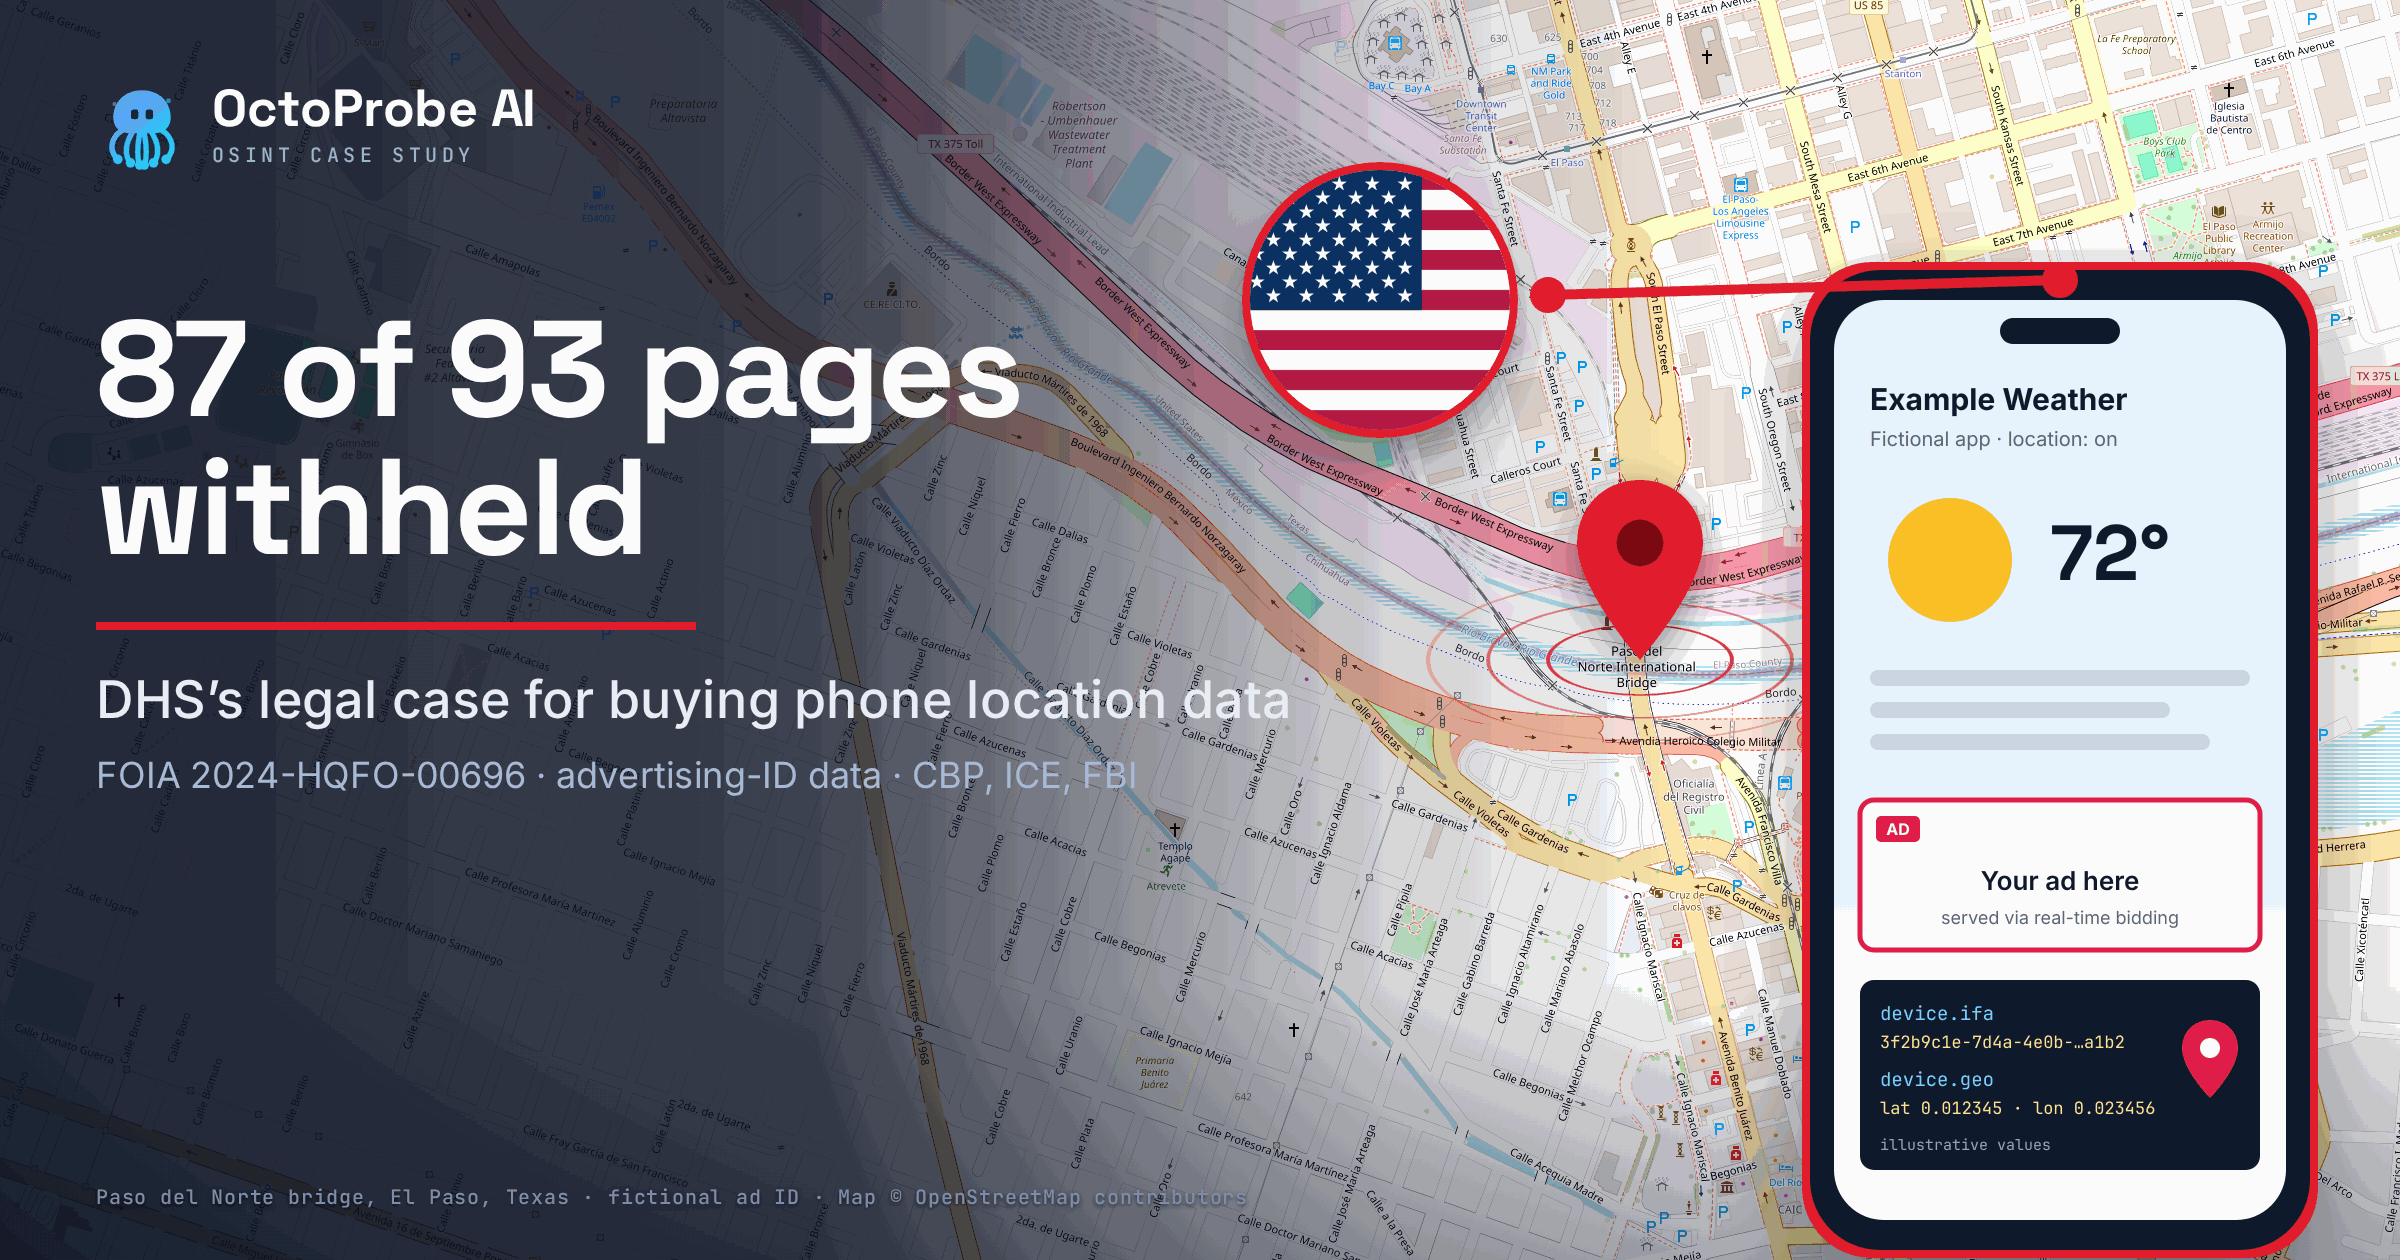
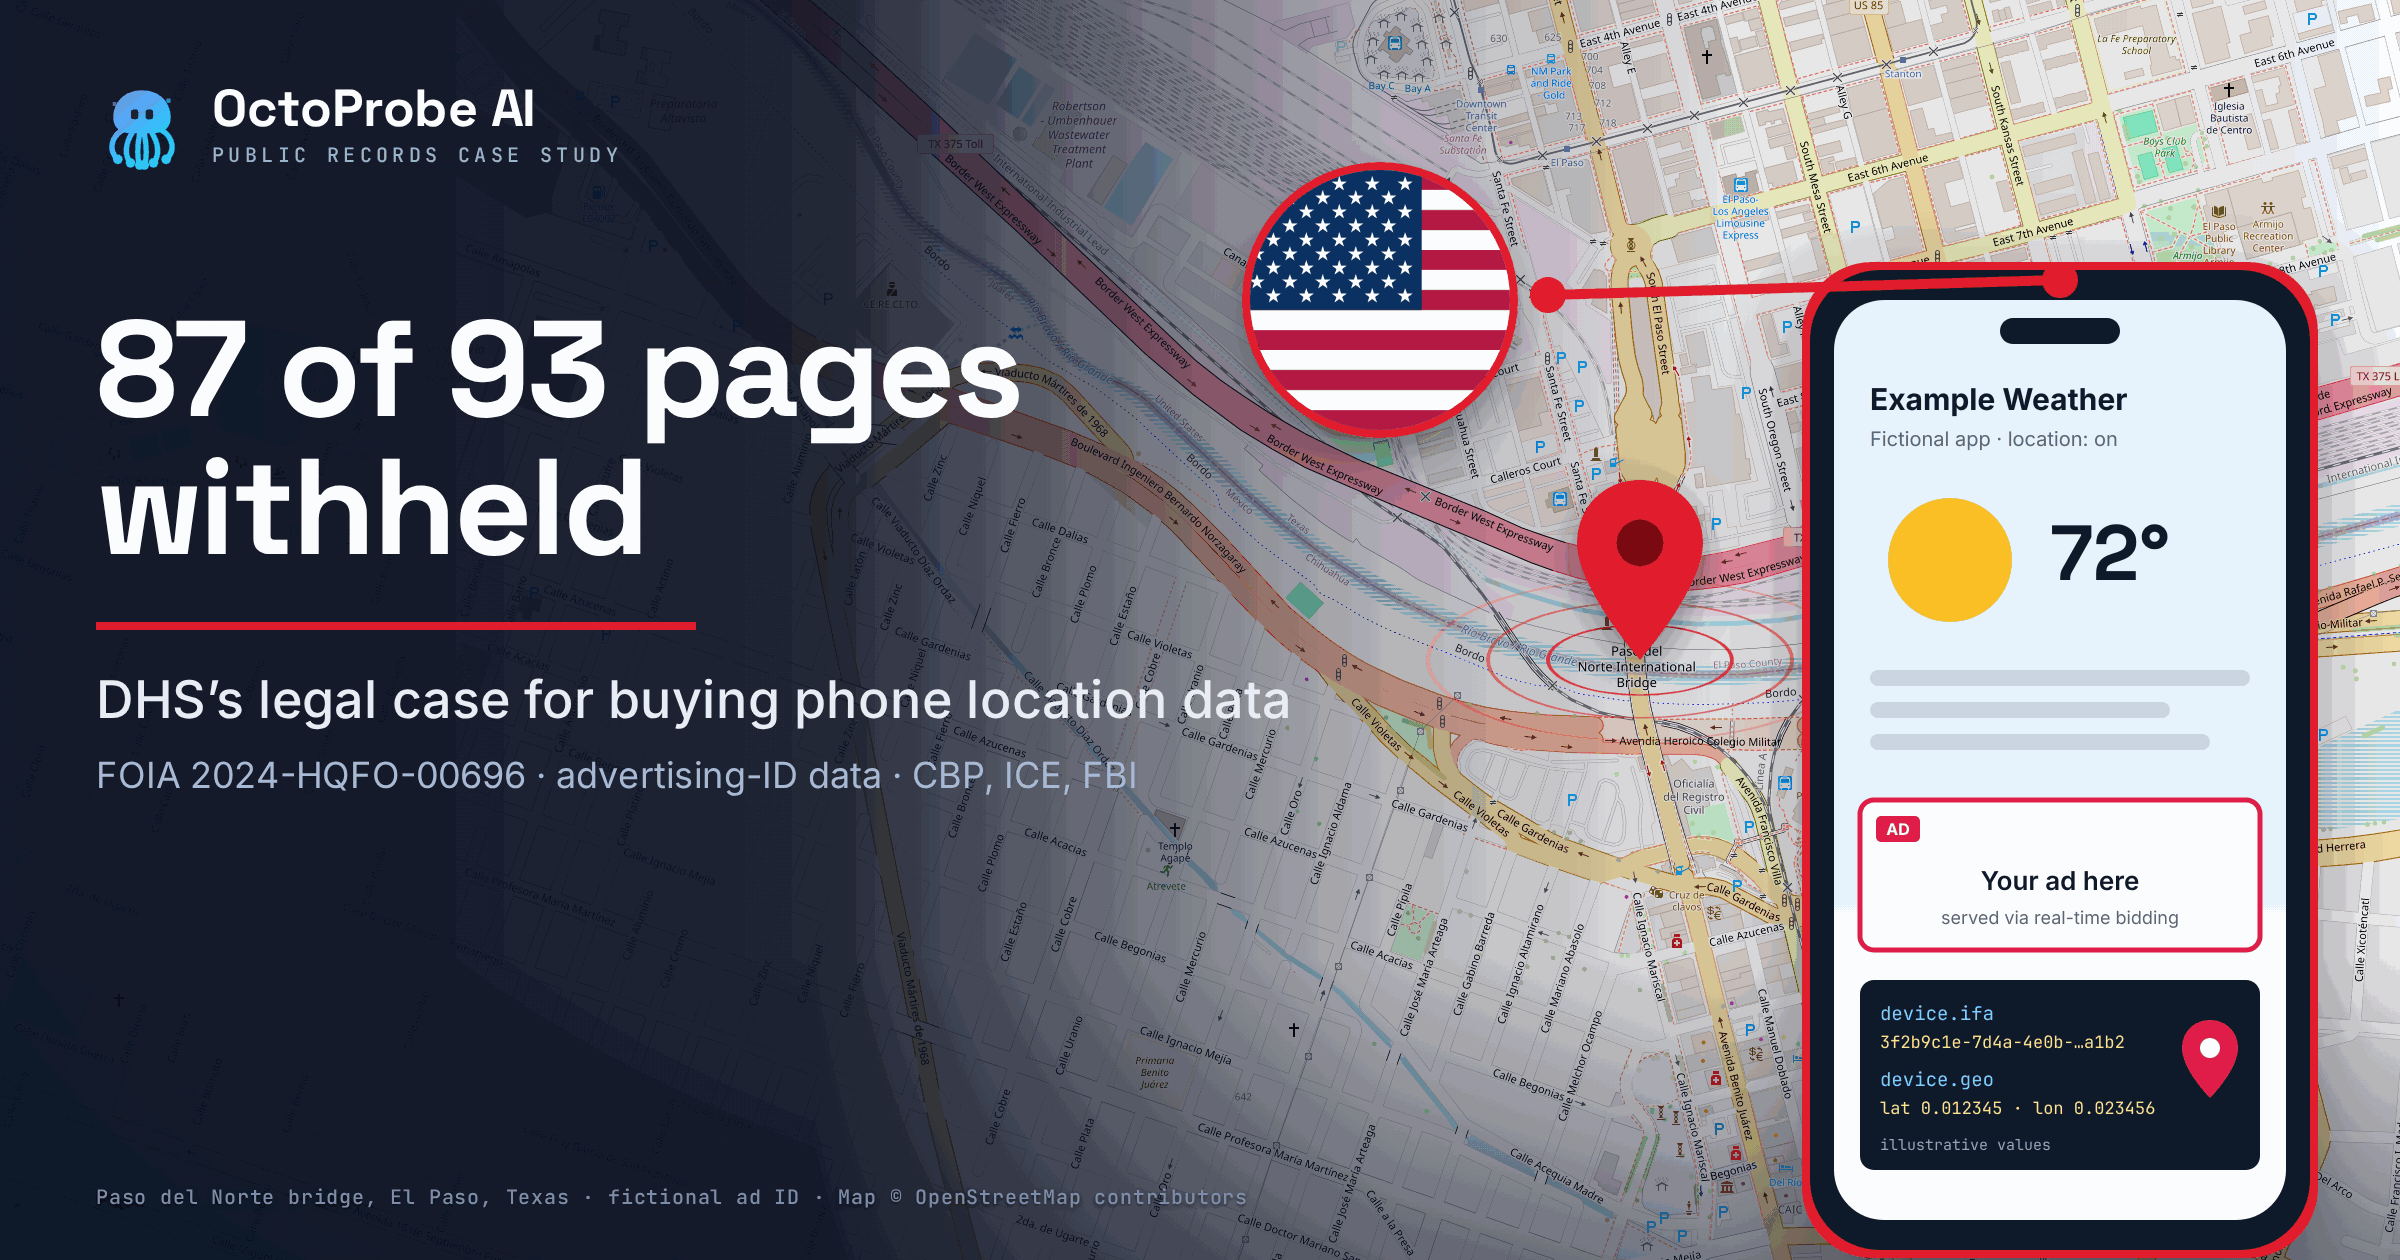
Blog: DHS adtech post cover v2 (public records label, darker scrim)
- assets/cover.png and og-cover.png regenerated: brand label now reads
  "PUBLIC RECORDS CASE STUDY"; left text scrim ~12 points darker. Map, pin,
  flag, phone, title, subtitle and credits unchanged.
- Cache-busting ?v=2 on the cover <img>, og:image, twitter:image and JSON-LD
  image (source: blog/posts/...md og_image and scripts/adtech-modules.py),
  and on the blog/index.html card.

diff --git a/blog/dhs-phone-location-data-legal-opinion-foia/index.html b/blog/dhs-phone-location-data-legal-opinion-foia/index.html
@@ -16,7 +16,7 @@
 <meta property="og:url" content="https://www.octoprobe.ai/blog/dhs-phone-location-data-legal-opinion-foia/">
 <meta property="og:title" content="DHS Lawyers Wrote 24 Pages on Buying Your Phone’s Location Data. They Withheld Every Page of the Analysis.">
 <meta property="og:description" content="A DHS legal opinion on buying phone ad-ID location data came back under FOIA as one page and 23 withheld pages. How the trade works and what is still secret.">
-<meta property="og:image" content="https://www.octoprobe.ai/blog/dhs-phone-location-data-legal-opinion-foia/assets/og-cover.png">
+<meta property="og:image" content="https://www.octoprobe.ai/blog/dhs-phone-location-data-legal-opinion-foia/assets/og-cover.png?v=2">
 <meta property="og:image:width" content="1200">
 <meta property="og:image:height" content="630">
 <meta property="og:image:alt" content="DHS Lawyers Wrote 24 Pages on Buying Your Phone’s Location Data. They Withheld Every Page of the Analysis.">
@@ -26,7 +26,7 @@
 <meta name="twitter:site" content="@octoprobeai">
 <meta name="twitter:title" content="DHS Lawyers Wrote 24 Pages on Buying Your Phone’s Location Data. They Withheld Every Page of the Analysis.">
 <meta name="twitter:description" content="A DHS legal opinion on buying phone ad-ID location data came back under FOIA as one page and 23 withheld pages. How the trade works and what is still secret.">
-<meta name="twitter:image" content="https://www.octoprobe.ai/blog/dhs-phone-location-data-legal-opinion-foia/assets/og-cover.png">
+<meta name="twitter:image" content="https://www.octoprobe.ai/blog/dhs-phone-location-data-legal-opinion-foia/assets/og-cover.png?v=2">
 <script type="application/ld+json">
 {
   "@context": "https://schema.org",
@@ -65,7 +65,7 @@
     }
   },
   "image": [
-    "https://www.octoprobe.ai/blog/dhs-phone-location-data-legal-opinion-foia/assets/og-cover.png"
+    "https://www.octoprobe.ai/blog/dhs-phone-location-data-legal-opinion-foia/assets/og-cover.png?v=2"
   ],
   "keywords": "commercial telemetry data, advertising ID location data, DHS FOIA, Venntel, CBP, ICE, FBI, real-time bidding, MAID, IDFA, Carpenter, Fourth Amendment Is Not For Sale Act",
   "mainEntityOfPage": {
@@ -285,7 +285,7 @@
   <article class="post-body">
     <div class="wrap">
       <div class="prose">
-<figure><img fetchpriority="high" decoding="async" src="/blog/dhs-phone-location-data-legal-opinion-foia/assets/cover.png" width="2400" height="1260" alt="Illustration: bright street map of the Paso del Norte International Bridge over the Rio Grande between El Paso, Texas, and Ciudad Juárez, Mexico, with a red pin on the bridge, a U.S. flag, and a red line to a phone graphic showing an ad slot and a fictional advertising ID" title="87 of 93 pages withheld"><figcaption>The Paso del Norte port of entry on the U.S.–Mexico border at El Paso, Texas, linked to an example phone ad slot. The app, advertising ID and coordinates shown are fictional. Illustration: OctoProbe News; map © OpenStreetMap contributors; U.S. flag via Wikimedia Commons (public domain).</figcaption></figure>
+<figure><img fetchpriority="high" decoding="async" src="/blog/dhs-phone-location-data-legal-opinion-foia/assets/cover.png?v=2" width="2400" height="1260" alt="Illustration: bright street map of the Paso del Norte International Bridge over the Rio Grande between El Paso, Texas, and Ciudad Juárez, Mexico, with a red pin on the bridge, a U.S. flag, and a red line to a phone graphic showing an ad slot and a fictional advertising ID" title="87 of 93 pages withheld"><figcaption>The Paso del Norte port of entry on the U.S.–Mexico border at El Paso, Texas, linked to an example phone ad slot. The app, advertising ID and coordinates shown are fictional. Illustration: OctoProbe News; map © OpenStreetMap contributors; U.S. flag via Wikimedia Commons (public domain).</figcaption></figure>
 <p class="primary-question"><strong>How does the U.S. government use commercial phone advertising data to track location?</strong></p>
 <p class="answer-first">Federal agencies have bought location data harvested from phone apps and ad auctions, keyed to each phone’s advertising ID, without warrants. DHS lawyers analyzed the legal risks in a 24-page 2020 opinion. A FOIA release shows the department withheld all of its legal reasoning, while oversight bodies found agencies skipped required privacy reviews.</p>
 <p>On Sept. 25, 2020, the Department of Homeland Security’s top lawyer signed a memo with a plain subject line: “<a href="/blog/dhs-phone-location-data-legal-opinion-foia/docs/dhs-ogc-adid-legal-opinion-2020-09-25.pdf#page=1">Legal Implications of Advertising Identifier Geolocation Data Use by CBP and ICE</a>.” It went to the department’s chief privacy officer. Its opening paragraph promised a review of “potential challenges under the Fourth Amendment and the Privacy Act of 1974” and of “some proactive measures” the department “may implement to mitigate certain legal risks.”</p>

diff --git a/blog/index.html b/blog/index.html
@@ -243,7 +243,7 @@
       <div class="post-grid">
         <a class="post-card reveal" href="/blog/dhs-phone-location-data-legal-opinion-foia/">
           <div class="thumb" aria-hidden="true">
-            <img src="/blog/dhs-phone-location-data-legal-opinion-foia/assets/cover.png?v=1" alt="" loading="lazy" decoding="async">
+            <img src="/blog/dhs-phone-location-data-legal-opinion-foia/assets/cover.png?v=2" alt="" loading="lazy" decoding="async">
           </div>
           <div class="card-body">
             <div class="meta">

diff --git a/scripts/adtech-modules.py b/scripts/adtech-modules.py
@@ -27,7 +27,7 @@ def fig(mid, kicker, title, body, caption, fallback=True, extra_cls=""):
 def w(name, s): MODULES[name] = s
 
 # ---------- cover ----------
-w("cover", f'<figure><img fetchpriority="high" decoding="async" src="{A}cover.png" width="2400" height="1260" '
+w("cover", f'<figure><img fetchpriority="high" decoding="async" src="{A}cover.png?v=2" width="2400" height="1260" '
   'alt="Illustration: bright street map of the Paso del Norte International Bridge over the Rio Grande between El Paso, Texas, and Ciudad Juárez, Mexico, with a red pin on the bridge, a U.S. flag, and a red line to a phone graphic showing an ad slot and a fictional advertising ID" '
   'title="87 of 93 pages withheld"><figcaption>The Paso del Norte port of entry on the U.S.–Mexico border at El Paso, Texas, linked to an example phone ad slot. '
   'The app, advertising ID and coordinates shown are fictional. Illustration: OctoProbe News; map © OpenStreetMap contributors; U.S. flag via Wikimedia Commons (public domain).</figcaption></figure>\n')

diff --git a/blog/posts/dhs-phone-location-data-legal-opinion-foia.md b/blog/posts/dhs-phone-location-data-legal-opinion-foia.md
@@ -8,7 +8,7 @@ slug: dhs-phone-location-data-legal-opinion-foia
 canonical: https://www.octoprobe.ai/blog/dhs-phone-location-data-legal-opinion-foia/
 tags: [Investigation, FOIA, Surveillance, Privacy, Adtech]
 keywords: [commercial telemetry data, advertising ID location data, DHS FOIA, Venntel, CBP, ICE, FBI, real-time bidding, MAID, IDFA, Carpenter, Fourth Amendment Is Not For Sale Act]
-og_image: https://www.octoprobe.ai/blog/dhs-phone-location-data-legal-opinion-foia/assets/og-cover.png
+og_image: https://www.octoprobe.ai/blog/dhs-phone-location-data-legal-opinion-foia/assets/og-cover.png?v=2
 byline: Colin Aamot
 author: Colin Aamot
 author_url: https://www.linkedin.com/in/colinaamot/
